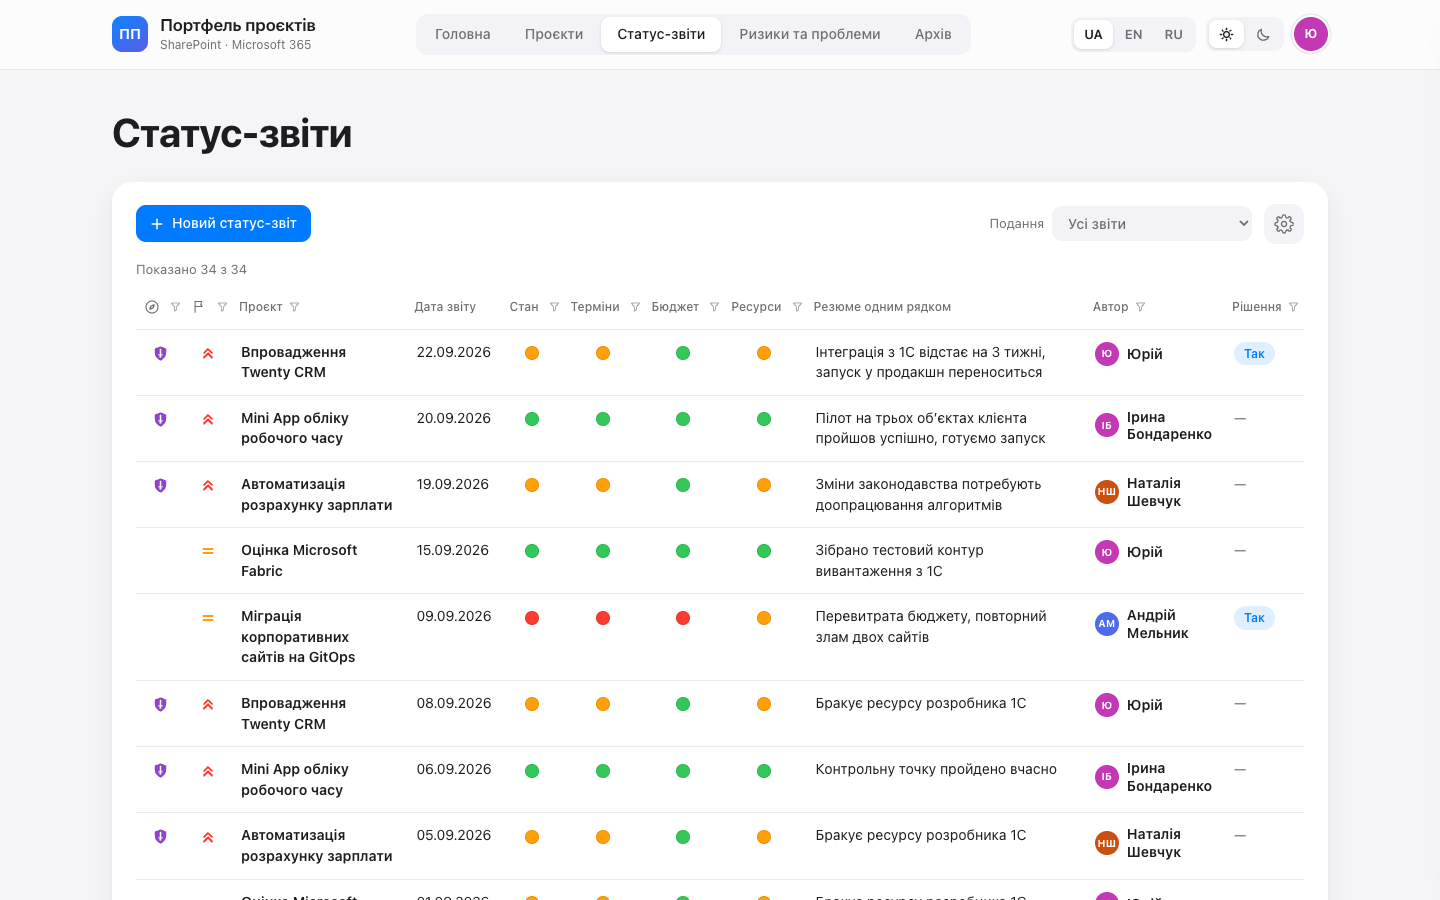
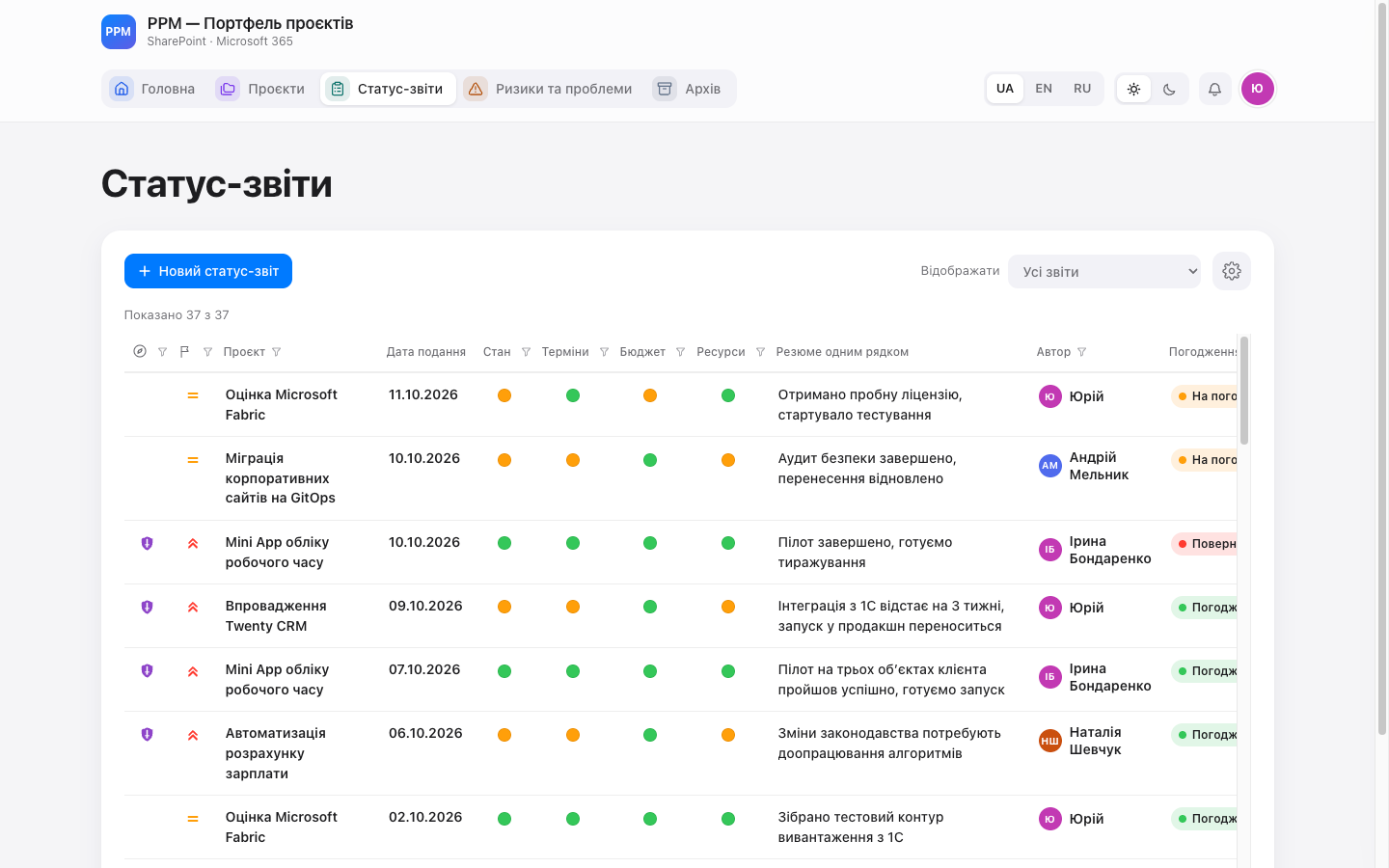
Прототип: скриншоты пересняты, колонки по умолчанию как в приложении (с тестом)

diff --git a/prototype/pmo-prototype.html b/prototype/pmo-prototype.html
@@ -1500,8 +1500,8 @@ const KDEF = {
 };
 TDEFS.projects = PDEF; TDEFAULTS.projects = ['strat','prio','title','pm','status','rag','repDate','progress','plan','update'];
 TDEFS.archive = PDEF; TDEFAULTS.archive = ['strat','prio','title','status','pm','owner','archived','ae','plan','budget','actual'];
-TDEFS.reports = RDEF; TDEFAULTS.reports = ['strat','prio','proj','date','rag','sched','budget','res','title','approval','author','decision'];
-TDEFS.risks = KDEF; TDEFAULTS.risks = ['strat','prio','proj','title','type','score','owner','status','due'];
+TDEFS.reports = RDEF; TDEFAULTS.reports = ['strat','prio','proj','date','rag','sched','budget','res','title','author','approval','decision'];   // как в приложении (defs.tsx)
+TDEFS.risks = KDEF; TDEFAULTS.risks = ['strat','prio','proj','title','type','score','strategy','owner','status','due'];   // как в приложении: стратегия реагування
 
 const icoSort = d => d === 'asc' ? '↑' : d === 'desc' ? '↓' : '';
 const icoFunnel = '<svg width="12" height="12" viewBox="0 0 16 16" fill="none" stroke="currentColor" stroke-width="1.6" stroke-linejoin="round"><path d="M2 3h12l-4.5 5.5V13l-3 1.5V8.5z"/></svg>';

diff --git a/spfx/test/prototypeForms2.test.ts b/spfx/test/prototypeForms2.test.ts
@@ -389,3 +389,11 @@ test('#89 таблицы: своё окно прокрутки на компью
   expect(css).toMatch(/\.dt thead th\{position:sticky;top:0;z-index:2;background:var\(--bg\);[^}]*\}/);
   expect(css).not.toMatch(/\.dt th\{position:relative\}/);   // относительное положение сбило бы закрепление
 });
+
+test('колонки по умолчанию — те же, что в приложении (статус-звіти, ризики)', () => {
+  const src = fs.readFileSync(path.join(__dirname, '../src/webparts/pmoPortal/components/defs.tsx'), 'utf8');
+  const app = (re: RegExp): string[] => JSON.parse((src.match(re) as RegExpMatchArray)[1].replace(/'/g, '"'));
+  const proto = (k: string): string[] => JSON.parse((HTML.match(new RegExp(`TDEFAULTS\\.${k} = (\\[[^\\]]*\\])`)) as RegExpMatchArray)[1].replace(/'/g, '"'));
+  expect(proto('reports')).toEqual(app(/lock: 'proj', cols, defaults: (\['strat', 'prio', 'proj', 'date'[^\]]*\])/));
+  expect(proto('risks')).toEqual(app(/lock: 'proj', cols, defaults: (\['strat', 'prio', 'proj', 'title'[^\]]*\])/));
+});

diff --git a/CHANGELOG.md b/CHANGELOG.md
@@ -2,6 +2,7 @@
 
 ## Не выпущено
 
+- **Прототип: скриншоты и колонки (12.10.2026):** скриншоты `docs/img/` пересняты с текущего прототипа (UA, светлая тема, тёмная — отдельно; «Головна» во всю высоту); колонки по умолчанию в прототипе — как в приложении («Статус-звіти»: автор, затем погодження; «Ризики»: + «Стратегія реагування»), тест сверяет их с `defs.tsx`.
 - **Сверка документации с кодом (12.10.2026):** README, ARCHITECTURE (16 схем Mermaid — все разбираются, две были сломаны точкой с запятой), DATA-MODEL (132 / 132 поля, ER со «Призначення» и «Прочитане», роль «Оновлення (портал)», `fpDecidedAt`, `teamIn` / `teamRole`), SPEC («Фаза проєкту», представления, колонки, формы, права v2, колокольчик, «Відгуки», «Довідка», телефон), PROTOTYPE, DEPLOYMENT (Azure Automation как есть: управляемая идентичность, `-SiteUrl`, кэш в переменной, публикация runbook; процедура новой версии; требования), SETUP, команды `.claude/commands`, CLAUDE.md (скрипты Azure, команды, шаг 5 — приложение и runbook), `spfx/README.md` вместо шаблона. Код: представление «Усі призначення» — записи всех папок (`Deploy-PMO.ps1`, выложено на тест); подсказка свежести в прототипе и приложении — «жовтий — 9–14» (было «8–14»; попадёт на сайт со следующей версией приложения).
 - **Сверка покрытия раунда 5 (1.7.2.10):** тесты приложения — карточка («Показати всі звіти», скрытые отметки команды в истории), «Ваша роль» в колокольчике, чтение «Відгуки — загальні» без поля «Розглянуто», окно прокрутки таблицы с клавиатуры (`spfx/test/r5coverage.test.tsx`; без исправлений падают); DATA-MODEL (`fpDecidedAt`, `teamIn` / `teamRole`, ключи `nsReadSet`), SPEC (колонка «Звіт»), DEPLOYMENT (порядок выкладки раунда 5), CLAUDE.md; обзор — раунд 5 в тексте, снимки «Довідка» с версией и новый «Що змінилося» (25), PDF; «Що змінилося» — что перепроверить.
 - **После кросс-ревью колокольчика (Sonnet, 1.7.2.9):** если поля «Розглянуто» (`fpDecidedAt`) на сайте ещё нет, «Відгуки — загальні» читаются без него — страница «Відгуки» не пустеет.

diff --git a/docs/PROTOTYPE.md b/docs/PROTOTYPE.md
@@ -31,7 +31,7 @@ cd prototype && python3 -m http.server 8765
 
 ## Экраны
 
-> Скриншоты в `docs/img/` сняты 25.09.2026 и не показывают изменений раундов 3–5 (значки меню, колокольчик, «Фаза проєкту», погодження, «Скасовано», «Відображати»). Их нужно переснять с прототипа (светлая тема, UA).
+> Скриншоты в `docs/img/` сняты с прототипа 12.10.2026 (UA, светлая тема; последний — тёмная), окно 1440 × 900 (сохранены в 1389 × 868), «Головна» — во всю высоту.
 
 **Головна** — сводка портфеля, динамика, проблемные проекты, проекты без свежего отчёта, запросы на решение, открытые риски.
 
